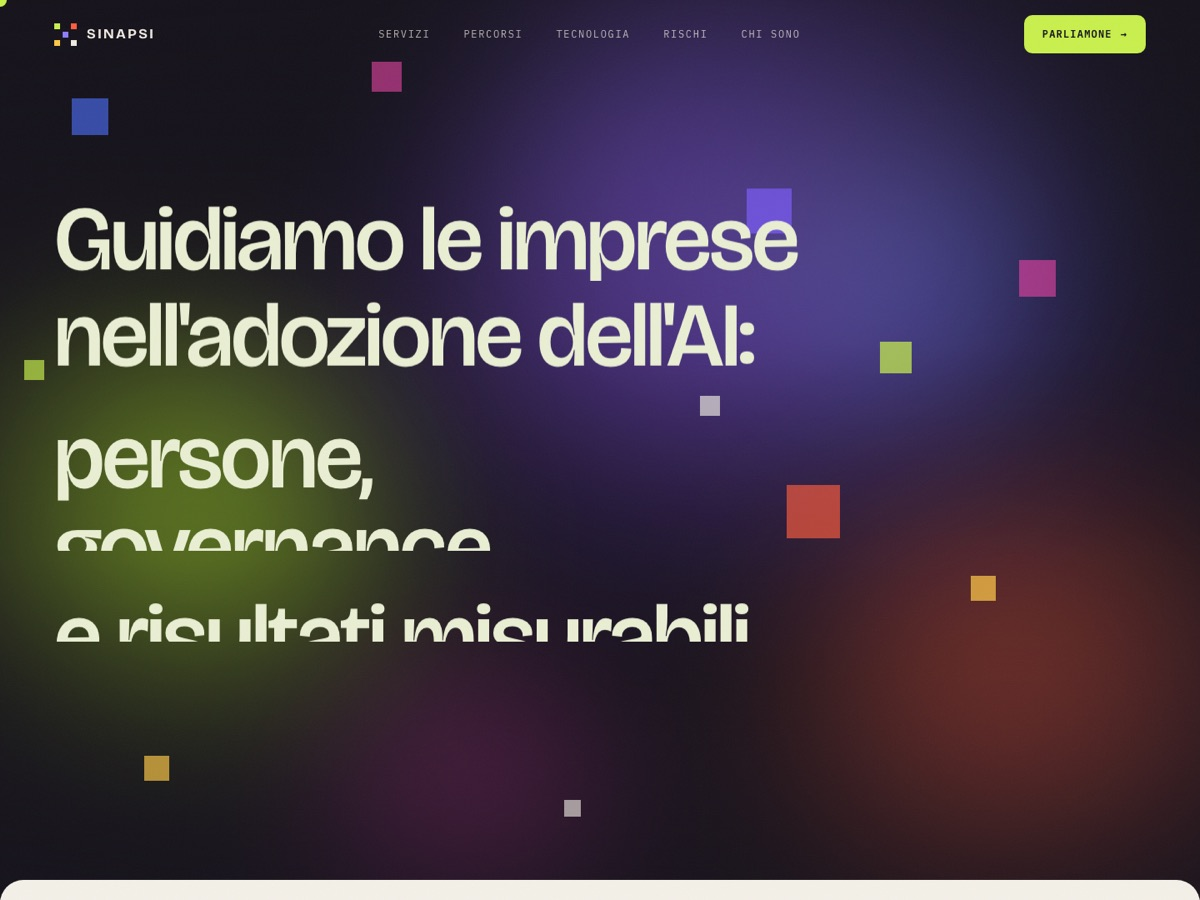
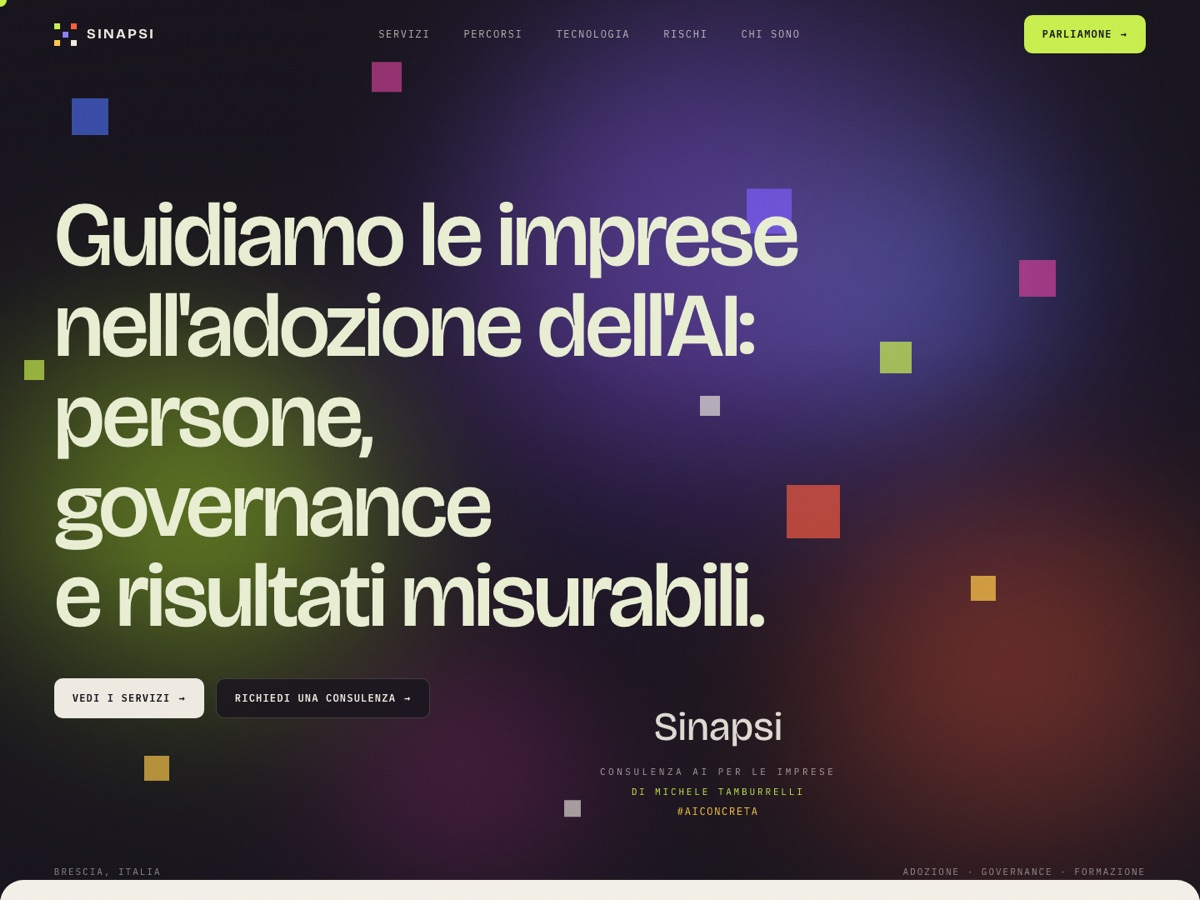
Anteprima SINAPSI con la home completamente carica

diff --git a/index.html b/index.html
@@ -148,7 +148,7 @@
           <li class="work fade-card" data-cursor="vedi live →" data-side="right">
             <a class="work__link" href="https://lucsal2603.github.io/consulenza-ai/" target="_blank" rel="noopener">
               <figure class="work__media">
-                <img class="work__img" src="assets/sinapsi.jpg" alt="Anteprima del sito SINAPSI: hero scuro con gradiente colorato per la consulenza AI" loading="lazy">
+                <img class="work__img" src="assets/sinapsi.jpg?v=2" alt="Anteprima del sito SINAPSI: hero scuro con gradiente colorato per la consulenza AI" loading="lazy">
               </figure>
               <div class="work__meta">
                 <span class="work__num mono-label">02</span>